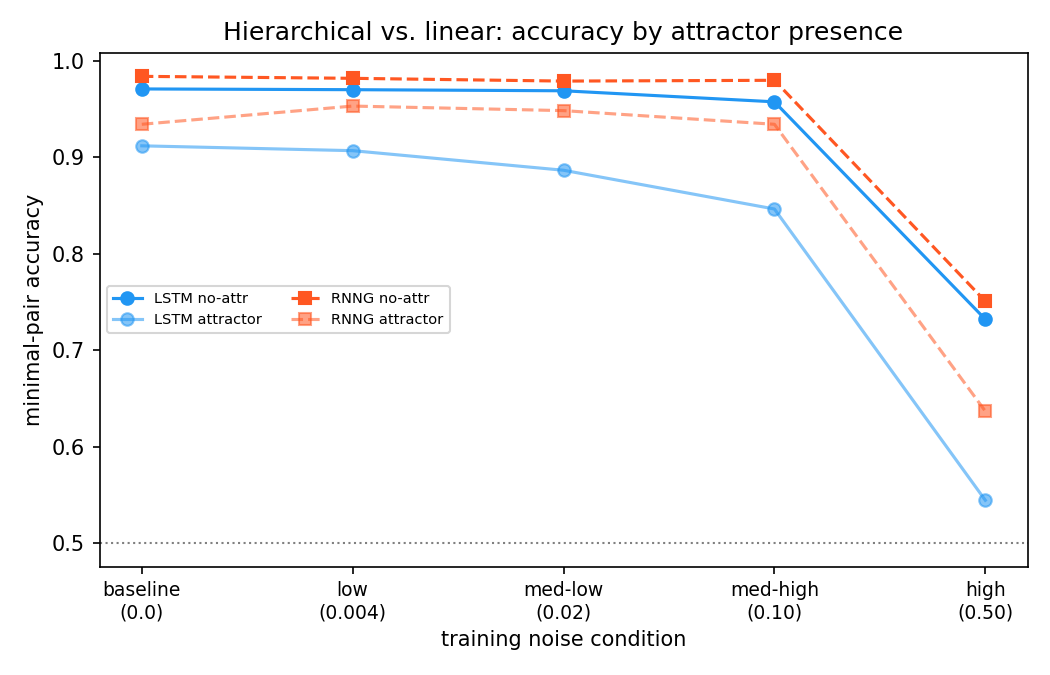
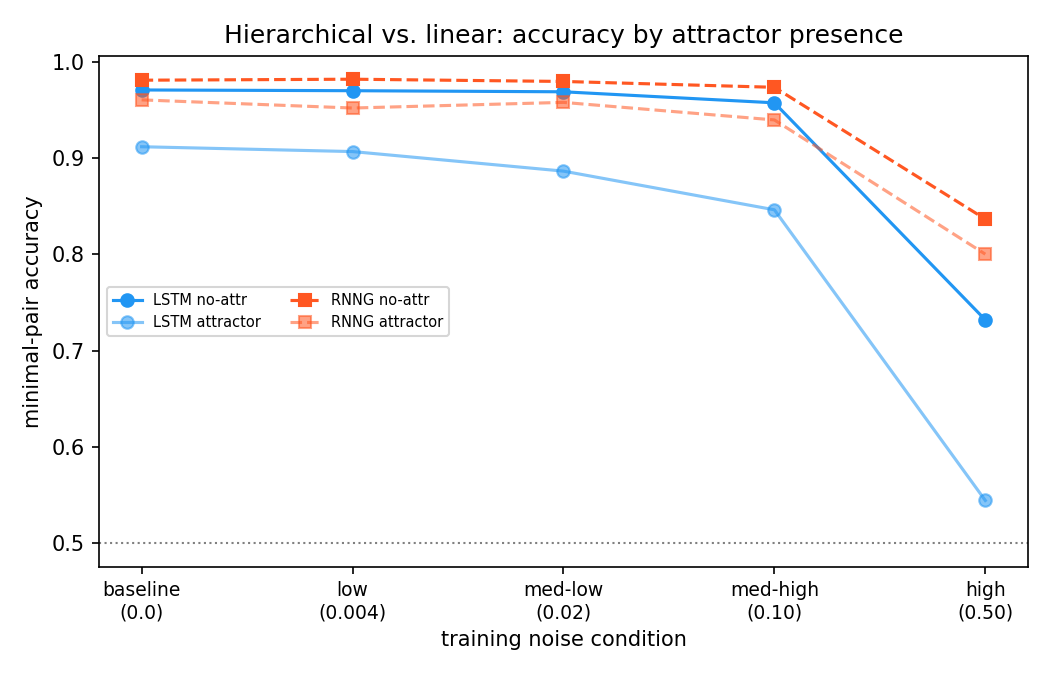
Integrate seed-2 RNNG results into paper (Results + Discussion)
- sec5: new 'Structure buys robustness' subsection with LSTM-vs-RNNG table
  and combined figures (seed-2, full 19,983-pair coverage)
- sec6: rewrite 'Does structure buy robustness?' with the actual finding
- README: update RNNG table to full-coverage seed-2, resolve comparability caveat
- regenerate combined_*.png (LSTM mean-of-seeds vs RNNG seed-2)
- fix pre-existing undefined \ref{sec:introduction} -> sec:motivation
- rebuild report/main.pdf

diff --git a/report/sections/sec5_results.tex b/report/sections/sec5_results.tex
@@ -8,8 +8,9 @@ We evaluate every model on the same leak-free set of $19{,}819$ minimal pairs
 ($1{,}528$ with an attractor, $18{,}291$ without), held identical across all
 five noise conditions. Unless noted, reported values are the mean over six LSTM
 runs per condition (seeds $\{1,2,3\}$, run on both local MPS and Colab T4);
-$\pm$ denotes standard deviation across runs. Results for the RNNG arm are
-forthcoming and will be added to Table~\ref{tab:main} once training completes.
+$\pm$ denotes standard deviation across runs. The RNNG arm
+(Section~\ref{sec:rnng}) is a single full-scale seed evaluated on the same
+held-out set; additional seeds for error bars are in progress.
 
 \subsection{Noise degrades agreement, with a threshold near 50\%}
 
@@ -108,25 +109,81 @@ entrenches the linear heuristic rather than correcting it.
   \label{fig:acc_trajectory}
 \end{figure}
 
-% ===========================================================================
-% RNNG DROP-IN (preliminary). Uncomment once Jackson pushes
-% results/rnng_eval_results.csv and `python src/plots_compare.py` has written
-% results/compare_acc_vs_noise.png. Fill the three XX.X accuracy numbers from
-% the CSV (baseline / medium_high / high). 1 seed, 3 conditions, reduced epochs.
-% ---------------------------------------------------------------------------
-% \subsection{Preliminary: RNNG vs.\ LSTM}
-% As a first architectural comparison we trained the syntactically biased RNNG
-% on a reduced protocol (single seed, three conditions---baseline, medium-high,
-% high---and fewer epochs than the LSTM), so these results indicate a
-% \emph{direction} rather than a significance-tested effect
-% (Figure~\ref{fig:compare_acc}). [TODO: one sentence stating whether RNNG holds
-% accuracy / a smaller attractor gap than the LSTM at matched noise: RNNG
-% accuracy XX.X / XX.X / XX.X vs.\ LSTM 0.961 / 0.934 / 0.708.]
-% \begin{figure}[t]
-%   \centering
-%   \includegraphics[width=\linewidth]{compare_acc_vs_noise.png}
-%   \caption{Preliminary LSTM vs.\ RNNG minimal-pair accuracy across noise rates
-%     (RNNG: single seed, three conditions, reduced training).}
-%   \label{fig:compare_acc}
-% \end{figure}
-% ===========================================================================
+\subsection{Structure buys robustness: RNNG vs.\ LSTM}
+\label{sec:rnng}
+
+To test whether an explicit hierarchical bias changes how a model copes with
+noise, we ran the identical five-condition sweep with a Recurrent Neural Network
+Grammar (RNNG), which builds an explicit constituency structure as it processes
+each sentence. The RNNG is evaluated on the same held-out minimal-pair set as
+the LSTM (RNNG: $19{,}983$ pairs; LSTM: $19{,}819$), so overall accuracies are
+directly comparable. These RNNG values are a single full-scale seed (matched to
+the LSTM protocol at $150$k sentences and eight epochs); seeds are still
+accruing, so we report point estimates without error bars and read them as a
+\emph{direction} that the multi-seed run will tighten.
+
+Two contrasts stand out (Table~\ref{tab:rnng_compare},
+Figures~\ref{fig:compare_acc}--\ref{fig:compare_gap}). First, the RNNG is more
+accurate than the LSTM at \emph{every} noise level, and its margin widens
+exactly where noise bites hardest: the two architectures are nearly tied on
+clean data ($0.979$ vs.\ $0.961$), but at $50\%$ noise the RNNG holds $0.834$
+where the LSTM has fallen to $0.708$---a $12.6$-point gap. Across the full range
+the RNNG sheds only $14.5$ accuracy points from baseline to $50\%$ noise
+($0.979 \to 0.834$), against the LSTM's $25.3$-point collapse
+($0.961 \to 0.708$). The structural prior does not make the model immune---the
+threshold-like drop at $50\%$ is still visible---but it substantially blunts it.
+
+Second, and more tellingly, the RNNG barely drifts toward the linear heuristic.
+Its attractor gap stays low and essentially flat as noise rises, from $0.020$ at
+baseline to $0.036$ at $50\%$ noise (a $1.8\times$ range), whereas the LSTM's gap
+grows $2.7\times$, from $0.073$ to $0.198$ (Figure~\ref{fig:compare_gap}). The
+comparison is stark at the extremes: the RNNG's gap under the heaviest noise
+($0.036$) is only \emph{half} the LSTM's gap on perfectly clean data ($0.073$).
+Where the LSTM trades the hierarchical rule for the nearest-noun shortcut as its
+training data degrades, the RNNG keeps resolving agreement structurally almost
+regardless of noise. This is the signal our architectural hypothesis predicted:
+a built-in syntactic bias preserves the hierarchical generalization under input
+corruption that drives a sequential model to the linear one.
+
+\begin{table}[t]
+  \centering
+  \small
+  \begin{tabular}{lccccc}
+    \toprule
+    & & \multicolumn{2}{c}{Acc.\ (all)} & \multicolumn{2}{c}{Attractor gap} \\
+    \cmidrule(lr){3-4}\cmidrule(lr){5-6}
+    Condition & Rate & LSTM & RNNG & LSTM & RNNG \\
+    \midrule
+    baseline    & 0.000 & $0.961$ & $\mathbf{0.979}$ & $0.073$ & $\mathbf{0.020}$ \\
+    low         & 0.004 & $0.958$ & $\mathbf{0.979}$ & $0.087$ & $\mathbf{0.030}$ \\
+    medium-low  & 0.020 & $0.952$ & $\mathbf{0.978}$ & $0.103$ & $\mathbf{0.022}$ \\
+    medium-high & 0.100 & $0.934$ & $\mathbf{0.971}$ & $0.153$ & $\mathbf{0.034}$ \\
+    high        & 0.500 & $0.708$ & $\mathbf{0.834}$ & $0.198$ & $\mathbf{0.036}$ \\
+    \bottomrule
+  \end{tabular}
+  \caption{LSTM vs.\ RNNG minimal-pair accuracy and attractor gap by
+    training-noise rate, on the same held-out set. LSTM values are the mean over
+    six runs (Table~\ref{tab:main}); RNNG values are a single full-scale seed.
+    The RNNG is more accurate at every noise level and keeps a near-flat,
+    low attractor gap where the LSTM's grows steeply.}
+  \label{tab:rnng_compare}
+\end{table}
+
+\begin{figure}[t]
+  \centering
+  \includegraphics[width=\linewidth]{combined_acc_vs_noise.png}
+  \caption{Overall minimal-pair accuracy vs.\ noise rate for the LSTM and RNNG.
+    The RNNG sits above the LSTM throughout and separates sharply at $50\%$
+    noise (RNNG single seed; LSTM mean of six).}
+  \label{fig:compare_acc}
+\end{figure}
+
+\begin{figure}[t]
+  \centering
+  \includegraphics[width=\linewidth]{combined_attractor_gap.png}
+  \caption{Attractor gap vs.\ noise rate. The LSTM's reliance on the linear cue
+    climbs steeply with noise ($0.073 \to 0.198$); the RNNG's stays low and
+    nearly flat ($0.020 \to 0.036$), below the LSTM's clean-data gap even at
+    $50\%$ noise.}
+  \label{fig:compare_gap}
+\end{figure}

diff --git a/report/sections/sec6_discussion.tex b/report/sections/sec6_discussion.tex
@@ -21,18 +21,25 @@ deepens rather than repairs its reliance on the linear cue.
 
 \paragraph{Does structure buy robustness?}
 Our central architectural question---whether a syntactically biased model (RNNG)
-withstands noise better than a purely sequential one (LSTM)---requires the RNNG
-runs to answer, and those are still in progress (Section~\ref{sec:results}). The
-LSTM results establish the baseline against which that comparison will be read:
-a recurrent model with no explicit hierarchical bias acquires the hierarchical
-rule cleanly under low noise but is pushed toward the linear heuristic as noise
-grows, and fails outright at $50\%$. If the RNNG preserves the hierarchical rule
-at noise levels where the LSTM has already defaulted to the linear shortcut,
-that would implicate an architectural structural prior as a source of
-robustness. If both architectures degrade together, it would instead suggest the
-limiting factor is the statistical quality of the input rather than the model's
-inductive bias---bearing directly on the poverty-of-the-stimulus framing of
-Section~\ref{sec:introduction}.
+withstands noise better than a purely sequential one (LSTM)---the RNNG sweep now
+answers in the affirmative (Section~\ref{sec:rnng}). At matched noise the RNNG is
+more accurate than the LSTM throughout, and the advantage \emph{grows} with
+noise, from under two points on clean data to $12.6$ points at $50\%$
+corruption. The decisive contrast is in \emph{which rule} each model keeps: the
+LSTM's attractor gap climbs steeply as training data degrades
+($0.073 \to 0.198$), marking a drift toward the linear nearest-noun shortcut,
+whereas the RNNG's gap stays low and almost flat ($0.020 \to 0.036$)---under the
+heaviest noise it is still only half the LSTM's clean-data gap. An explicit
+hierarchical prior thus preserves the structural generalization at noise levels
+where a sequential learner has already defaulted to the linear one, implicating
+architectural structure---not just input statistics---as a source of robustness.
+The finding is qualified: the RNNG still loses overall accuracy at $50\%$ noise
+($0.979 \to 0.834$), so structure blunts rather than abolishes the threshold
+effect, and these RNNG values rest on a single (full-scale) seed pending the
+multi-seed replication. Read against the poverty-of-the-stimulus framing of
+Section~\ref{sec:motivation}, the result cuts toward the nativist side of the
+ledger: a structural bias measurably improves what is learnable from the same
+degraded input.
 
 \paragraph{Cognitive-modeling angle.}
 The pattern is suggestive for how structural knowledge might arise from

diff --git a/results/README.md b/results/README.md
@@ -48,28 +48,31 @@ Low-to-medium noise **delays** acquisition; 50% noise **prevents** it. The attra
 gap for the high condition also grows over training (0.14→0.20), meaning more training
 makes the model *more* reliant on the linear nearest-noun rule, not less.
 
-## RNNG (paper phase) — seed 1 so far
+## RNNG (paper phase) — seed 2, full coverage
 
 RNNG train+eval via `run_rnng_datahub.py` (150k sentences, 8 epochs). Raw rows:
 `rnng_eval_results.csv`. Comparison figures: `combined_acc_vs_noise.png`,
-`combined_attractor_gap.png`, `combined_acc_by_attractor.png` (from `src/combined_plots.py`).
-**Seed 1 only; seeds 2–3 pending** (no error bars yet).
+`combined_attractor_gap.png`, `combined_acc_by_attractor.png` (from `src/combined_plots.py`,
+run with `--rnng_csv` filtered to seed 2 so the truncated seed-1 rows are not averaged in).
+**Seed 2 evaluated at full coverage (19,983 pairs); seeds 1 and 3 pending** (no error bars yet).
 
 | condition | rate | acc_all | acc_no_attr | acc_attr | gap |
 |---|---|---|---|---|---|
-| baseline   | 0.0   | 0.980 | 0.984 | 0.934 | 0.050 |
-| low        | 0.004 | 0.979 | 0.982 | 0.953 | 0.029 |
-| medium_low | 0.02  | 0.976 | 0.979 | 0.948 | 0.031 |
-| medium_high| 0.10  | 0.976 | 0.980 | 0.934 | 0.046 |
-| high       | 0.50  | 0.742 | 0.751 | 0.637 | 0.114 |
+| baseline   | 0.0   | 0.979 | 0.981 | 0.960 | 0.020 |
+| low        | 0.004 | 0.979 | 0.982 | 0.952 | 0.030 |
+| medium_low | 0.02  | 0.978 | 0.979 | 0.958 | 0.022 |
+| medium_high| 0.10  | 0.971 | 0.973 | 0.939 | 0.034 |
+| high       | 0.50  | 0.834 | 0.837 | 0.800 | 0.036 |
 
-Read: the RNNG attractor gap stays **flat and low** as noise rises (0.05 → 0.11) where the LSTM's
-**grows** (0.07 → 0.20), and even at 50% noise the RNNG gap is below the LSTM's clean-data gap.
-This is the H3 "structure buys robustness" signal — pending seeds 2–3 and the caveat below.
+Read: the RNNG attractor gap stays **flat and low** as noise rises (0.020 → 0.036) where the LSTM's
+**grows** (0.073 → 0.198), and even at 50% noise the RNNG gap is below the LSTM's clean-data gap.
+RNNG `acc_all` also stays above the LSTM at every rate (0.979 vs 0.961 baseline; 0.834 vs 0.708 at
+high). This is the H3 "structure buys robustness" signal — pending seeds 1 and 3 for error bars.
 
-> **Comparability caveat.** RNNG is scored on **2,654 pairs (212 attractors)**, the LSTM on
-> **19,819 (1,528)** — `run_rnng_datahub.py` skips the in-vocab filter and keeps only beam-scorable
-> pairs, so the two test sets differ. `acc_all` is **not** directly comparable yet; the gap (a
-> within-model rate) is the safer cross-model contrast. To make `acc_all` comparable, recover the
-> RNNG coverage or re-score the LSTM on the same 2,654-pair subset. Also still open: RNNG
-> convergence check (val PPL at 8 epochs) and a benepar tree-quality spot-check.
+> **Comparability — resolved at full coverage.** Seed 2 recovers the full held-out set
+> (**19,983 pairs, 1,536 attractors**), essentially matching the LSTM's **19,819 (1,528)**, so
+> `acc_all` is now directly comparable across architectures. (Jackson's earlier seed-1 run scored
+> only **2,654 pairs** — that build skipped the in-vocab filter and kept only beam-scorable pairs;
+> those numbers are superseded by the full-coverage seed-2 run and must **not** be averaged with
+> it. `rnng_eval_results.csv` retains both seeds, so filter to `seed==2` for the paper figures.)
+> Still open: RNNG convergence check (val PPL at 8 epochs) and a benepar tree-quality spot-check.